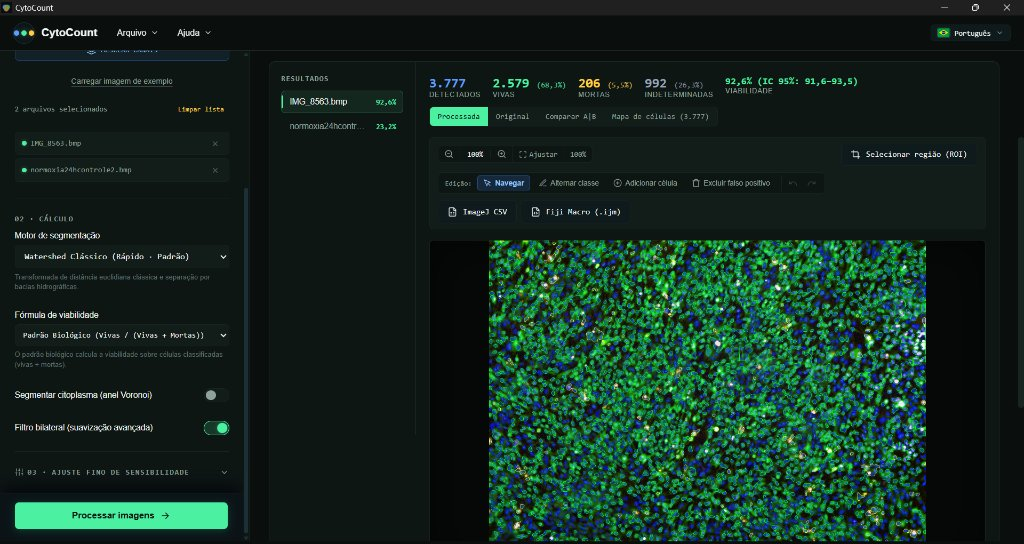
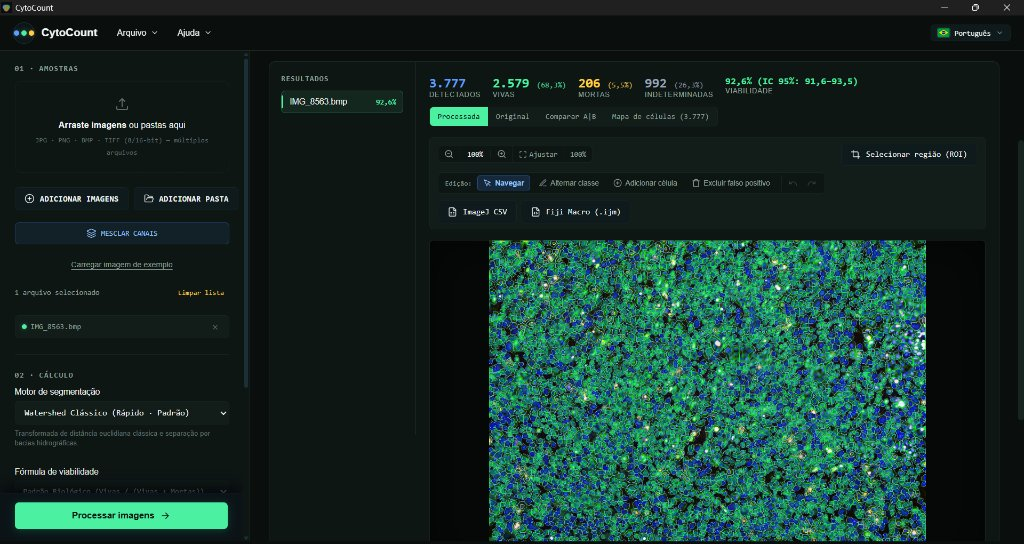
docs: update hero screenshot and remove CNPEM references in all documentations

diff --git a/README.es.md b/README.es.md
@@ -36,7 +36,7 @@
 
 </div>
 
-<p align="center"><sub>Desarrollado en el marco de investigación científica del <strong>Centro Nacional de Pesquisa em Energia e Materiais (CNPEM)</strong> · Campinas - SP, Brasil</sub></p>
+<p align="center"><sub>Desarrollado por <strong>Gabriel Candido Messias dos Santos</strong> · Campinas - SP, Brasil</sub></p>
 
 ## Índice
 
@@ -190,7 +190,7 @@ Permite al investigador inspeccionar y ajustar los resultados directamente:
 - Alternar clasificación (`Viva` $\leftrightarrow$ `Muerta` $\leftrightarrow$ `Indeterminada`).
 - Añadir células no detectadas con un solo clic.
 - Eliminar falsos positivos generados por artefactos de tinción o detritos.
-- Historial con `Ctrl+Z` (Deshacer) y `Ctrl+Y` (Rehacer), guardando cada edición en el archivo `.cytoproj` para auditoría y reproducibilidad.
+- Historial con `Ctrl+Z` (Deshacer) e `Ctrl+Y` (Rehacer), guardando cada edición en el archivo `.cytoproj` para auditoría y reproducibilidad.
 
 ### Integración con ImageJ / Fiji y Exportación de Figuras
 
@@ -235,7 +235,7 @@ Preguntas, sugerencias o reportes de errores pueden enviarse mediante [issues en
 
 ## Autores
 
-Proyecto desarrollado en el marco de investigación científica del **Centro Nacional de Pesquisa em Energia e Materiais (CNPEM)**, Campinas - SP, Brasil:
+Proyecto desarrollado por:
 
 - **Gabriel Candido Messias dos Santos** — [gabrielcandidomds@gmail.com](mailto:gabrielcandidomds@gmail.com) · [Lattes](http://lattes.cnpq.br/6696786236047929) · [LinkedIn](https://www.linkedin.com/in/gabriel-candido-235637226/)
 
@@ -258,8 +258,7 @@ Si utilizas CytoCount en artículos científicos, tesis o congresos, por favor c
 ```
 Santos, G. C. M. (2026). CytoCount: Automated fluorescence cell viability
 counter and morphological segmenter (Versión 1.1.0) [Software de computación].
-Centro Nacional de Pesquisa em Energia e Materiais (CNPEM).
-https://github.com/gcandid0/CytoCount
+Campinas, SP, Brasil. https://github.com/gcandid0/CytoCount
 ```
 </details>
 
@@ -268,8 +267,7 @@ https://github.com/gcandid0/CytoCount
 
 ```
 Santos GCM. CytoCount: automated fluorescence cell viability counter and
-morphological segmenter [Internet]. Versión 1.1.0. Campinas: Centro Nacional de
-Pesquisa em Energia e Materiais (CNPEM); 2026. Disponible en:
+morphological segmenter [Internet]. Versión 1.1.0. Campinas; 2026. Disponible en:
 https://github.com/gcandid0/CytoCount
 ```
 </details>
@@ -279,9 +277,8 @@ https://github.com/gcandid0/CytoCount
 
 ```
 G. C. M. Santos, "CytoCount: Automated Fluorescence Cell Viability Counter and
-Morphological Segmenter," Versión 1.1.0, Centro Nacional de Pesquisa em
-Energia e Materiais (CNPEM), Campinas, Brasil, 2026. [En línea]. Disponible:
-https://github.com/gcandid0/CytoCount
+Morphological Segmenter," Versión 1.1.0, Campinas, Brasil, 2026. [En línea].
+Disponible: https://github.com/gcandid0/CytoCount
 ```
 </details>
 
@@ -290,9 +287,8 @@ https://github.com/gcandid0/CytoCount
 
 ```
 SANTOS, Gabriel Candido Messias dos. CytoCount: Automated Fluorescence Cell
-Viability Counter and Morphological Segmenter. Versão 1.1.0. Campinas: Centro
-Nacional de Pesquisa em Energia e Materiais (CNPEM), 2026. Disponível em:
-https://github.com/gcandid0/CytoCount.
+Viability Counter and Morphological Segmenter. Versão 1.1.0. Campinas, 2026.
+Disponível em: https://github.com/gcandid0/CytoCount.
 ```
 </details>
 
@@ -305,7 +301,6 @@ https://github.com/gcandid0/CytoCount.
   title        = {{CytoCount: Automated Fluorescence Cell Viability Counter and Morphological Segmenter}},
   version      = {1.1.0},
   year         = {2026},
-  institution  = {Centro Nacional de Pesquisa em Energia e Materiais (CNPEM)},
   address      = {Campinas, SP, Brasil},
   url          = {https://github.com/gcandid0/CytoCount}
 }
@@ -321,7 +316,6 @@ AU  - Santos, Gabriel Candido Messias dos
 TI  - CytoCount: Automated Fluorescence Cell Viability Counter and Morphological Segmenter
 ET  - 1.1.0
 PY  - 2026
-PB  - Centro Nacional de Pesquisa em Energia e Materiais (CNPEM)
 CY  - Campinas, SP, Brasil
 UR  - https://github.com/gcandid0/CytoCount
 ER  -
@@ -345,7 +339,7 @@ Las contribuciones son bienvenidas, respetando los términos de la [licencia](#l
   <img src="./assets/logo.png" alt="CytoCount" width="48">
   <br>
   <sub>
-    <strong>CytoCount</strong> · desarrollado en el <a href="https://cnpem.br/">Centro Nacional de Pesquisa em Energia e Materiais (CNPEM)</a><br>
+    <strong>CytoCount</strong> · por Gabriel Candido Messias dos Santos<br>
     <a href="https://github.com/gcandid0/CytoCount">Repositorio en GitHub</a> ·
     <a href="http://lattes.cnpq.br/6696786236047929">Currículum Lattes</a> ·
     <a href="https://www.linkedin.com/in/gabriel-candido-235637226/">LinkedIn</a> ·

diff --git a/README.en.md b/README.en.md
@@ -36,7 +36,7 @@
 
 </div>
 
-<p align="center"><sub>Developed as part of scientific research at the <strong>Brazilian Center for Research in Energy and Materials (CNPEM)</strong> · Campinas - SP, Brazil</sub></p>
+<p align="center"><sub>Developed by <strong>Gabriel Candido Messias dos Santos</strong> · Campinas - SP, Brazil</sub></p>
 
 ## Table of Contents
 
@@ -235,7 +235,7 @@ Questions, suggestions, or bug reports can be submitted via [GitHub Issues](http
 
 ## Authors
 
-Developed as part of scientific research at the **Brazilian Center for Research in Energy and Materials (CNPEM)**, Campinas - SP, Brazil:
+Developed by:
 
 - **Gabriel Candido Messias dos Santos** — [gabrielcandidomds@gmail.com](mailto:gabrielcandidomds@gmail.com) · [Lattes](http://lattes.cnpq.br/6696786236047929) · [LinkedIn](https://www.linkedin.com/in/gabriel-candido-235637226/)
 
@@ -258,8 +258,7 @@ If CytoCount contributes to scientific findings in your peer-reviewed papers, di
 ```
 Santos, G. C. M. (2026). CytoCount: Automated fluorescence cell viability
 counter and morphological segmenter (Version 1.1.0) [Computer software].
-Brazilian Center for Research in Energy and Materials (CNPEM).
-https://github.com/gcandid0/CytoCount
+Campinas, SP, Brazil. https://github.com/gcandid0/CytoCount
 ```
 </details>
 
@@ -268,8 +267,7 @@ https://github.com/gcandid0/CytoCount
 
 ```
 Santos GCM. CytoCount: automated fluorescence cell viability counter and
-morphological segmenter [Internet]. Version 1.1.0. Campinas: Brazilian Center
-for Research in Energy and Materials (CNPEM); 2026. Available from:
+morphological segmenter [Internet]. Version 1.1.0. Campinas; 2026. Available from:
 https://github.com/gcandid0/CytoCount
 ```
 </details>
@@ -279,9 +277,8 @@ https://github.com/gcandid0/CytoCount
 
 ```
 G. C. M. Santos, "CytoCount: Automated Fluorescence Cell Viability Counter and
-Morphological Segmenter," Version 1.1.0, Brazilian Center for Research in
-Energy and Materials (CNPEM), Campinas, Brazil, 2026. [Online]. Available:
-https://github.com/gcandid0/CytoCount
+Morphological Segmenter," Version 1.1.0, Campinas, Brazil, 2026. [Online].
+Available: https://github.com/gcandid0/CytoCount
 ```
 </details>
 
@@ -290,9 +287,8 @@ https://github.com/gcandid0/CytoCount
 
 ```
 SANTOS, Gabriel Candido Messias dos. CytoCount: Automated Fluorescence Cell
-Viability Counter and Morphological Segmenter. Versão 1.1.0. Campinas: Centro
-Nacional de Pesquisa em Energia e Materiais (CNPEM), 2026. Disponível em:
-https://github.com/gcandid0/CytoCount.
+Viability Counter and Morphological Segmenter. Versão 1.1.0. Campinas, 2026.
+Disponível em: https://github.com/gcandid0/CytoCount.
 ```
 </details>
 
@@ -305,7 +301,6 @@ https://github.com/gcandid0/CytoCount.
   title        = {{CytoCount: Automated Fluorescence Cell Viability Counter and Morphological Segmenter}},
   version      = {1.1.0},
   year         = {2026},
-  institution  = {Brazilian Center for Research in Energy and Materials (CNPEM)},
   address      = {Campinas, SP, Brazil},
   url          = {https://github.com/gcandid0/CytoCount}
 }
@@ -321,7 +316,6 @@ AU  - Santos, Gabriel Candido Messias dos
 TI  - CytoCount: Automated Fluorescence Cell Viability Counter and Morphological Segmenter
 ET  - 1.1.0
 PY  - 2026
-PB  - Brazilian Center for Research in Energy and Materials (CNPEM)
 CY  - Campinas, SP, Brazil
 UR  - https://github.com/gcandid0/CytoCount
 ER  -
@@ -345,7 +339,7 @@ Contributions from the bioimage informatics community are welcome. Before submit
   <img src="./assets/logo.png" alt="CytoCount" width="48">
   <br>
   <sub>
-    <strong>CytoCount</strong> · developed at the <a href="https://cnpem.br/">Brazilian Center for Research in Energy and Materials (CNPEM)</a><br>
+    <strong>CytoCount</strong> · by Gabriel Candido Messias dos Santos<br>
     <a href="https://github.com/gcandid0/CytoCount">GitHub Repository</a> ·
     <a href="http://lattes.cnpq.br/6696786236047929">Lattes Curriculum</a> ·
     <a href="https://www.linkedin.com/in/gabriel-candido-235637226/">LinkedIn</a> ·

diff --git a/README.md b/README.md
@@ -36,7 +36,7 @@
 
 </div>
 
-<p align="center"><sub>Desenvolvido no âmbito de pesquisa científica no <strong>Centro Nacional de Pesquisa em Energia e Materiais (CNPEM)</strong> · Campinas - SP, Brasil</sub></p>
+<p align="center"><sub>Desenvolvido por <strong>Gabriel Candido Messias dos Santos</strong> · Campinas - SP, Brasil</sub></p>
 
 ## Índice
 
@@ -235,7 +235,7 @@ Dúvidas, sugestões de aprimoramento ou relatos de inconsistências podem ser e
 
 ## Autores
 
-Projeto desenvolvido no âmbito de pesquisa científica no **Centro Nacional de Pesquisa em Energia e Materiais (CNPEM)**, Campinas - SP, Brasil:
+Projeto desenvolvido por:
 
 - **Gabriel Candido Messias dos Santos** — [gabrielcandidomds@gmail.com](mailto:gabrielcandidomds@gmail.com) · [Lattes](http://lattes.cnpq.br/6696786236047929) · [LinkedIn](https://www.linkedin.com/in/gabriel-candido-235637226/)
 
@@ -257,9 +257,8 @@ Caso o CytoCount seja utilizado na geração de dados para artigos, dissertaçõ
 
 ```
 SANTOS, Gabriel Candido Messias dos. CytoCount: Automated Fluorescence Cell
-Viability Counter and Morphological Segmenter. Versão 1.1.0. Campinas: Centro
-Nacional de Pesquisa em Energia e Materiais (CNPEM), 2026. Disponível em:
-https://github.com/gcandid0/CytoCount.
+Viability Counter and Morphological Segmenter. Versão 1.1.0. Campinas, 2026.
+Disponível em: https://github.com/gcandid0/CytoCount.
 ```
 </details>
 
@@ -269,8 +268,7 @@ https://github.com/gcandid0/CytoCount.
 ```
 Santos, G. C. M. (2026). CytoCount: Automated fluorescence cell viability
 counter and morphological segmenter (Version 1.1.0) [Computer software].
-Centro Nacional de Pesquisa em Energia e Materiais (CNPEM).
-https://github.com/gcandid0/CytoCount
+Campinas, SP, Brazil. https://github.com/gcandid0/CytoCount
 ```
 </details>
 
@@ -279,8 +277,7 @@ https://github.com/gcandid0/CytoCount
 
 ```
 Santos GCM. CytoCount: automated fluorescence cell viability counter and
-morphological segmenter [Internet]. Version 1.1.0. Campinas: Centro Nacional de
-Pesquisa em Energia e Materiais (CNPEM); 2026. Available from:
+morphological segmenter [Internet]. Version 1.1.0. Campinas; 2026. Available from:
 https://github.com/gcandid0/CytoCount
 ```
 </details>
@@ -290,9 +287,8 @@ https://github.com/gcandid0/CytoCount
 
 ```
 G. C. M. Santos, "CytoCount: Automated Fluorescence Cell Viability Counter and
-Morphological Segmenter," Version 1.1.0, Centro Nacional de Pesquisa em
-Energia e Materiais (CNPEM), Campinas, Brazil, 2026. [Online]. Available:
-https://github.com/gcandid0/CytoCount
+Morphological Segmenter," Version 1.1.0, Campinas, Brazil, 2026. [Online].
+Available: https://github.com/gcandid0/CytoCount
 ```
 </details>
 
@@ -305,7 +301,6 @@ https://github.com/gcandid0/CytoCount
   title        = {{CytoCount: Automated Fluorescence Cell Viability Counter and Morphological Segmenter}},
   version      = {1.1.0},
   year         = {2026},
-  institution  = {Centro Nacional de Pesquisa em Energia e Materiais (CNPEM)},
   address      = {Campinas, SP, Brasil},
   url          = {https://github.com/gcandid0/CytoCount}
 }
@@ -321,7 +316,6 @@ AU  - Santos, Gabriel Candido Messias dos
 TI  - CytoCount: Automated Fluorescence Cell Viability Counter and Morphological Segmenter
 ET  - 1.1.0
 PY  - 2026
-PB  - Centro Nacional de Pesquisa em Energia e Materiais (CNPEM)
 CY  - Campinas, SP, Brasil
 UR  - https://github.com/gcandid0/CytoCount
 ER  -
@@ -345,7 +339,7 @@ Contribuições da comunidade científica são muito bem-vindas. Antes de submet
   <img src="./assets/logo.png" alt="CytoCount" width="48">
   <br>
   <sub>
-    <strong>CytoCount</strong> · desenvolvido no <a href="https://cnpem.br/">Centro Nacional de Pesquisa em Energia e Materiais (CNPEM)</a><br>
+    <strong>CytoCount</strong> · por Gabriel Candido Messias dos Santos<br>
     <a href="https://github.com/gcandid0/CytoCount">Repositório GitHub</a> ·
     <a href="http://lattes.cnpq.br/6696786236047929">Currículo Lattes</a> ·
     <a href="https://www.linkedin.com/in/gabriel-candido-235637226/">LinkedIn</a> ·
